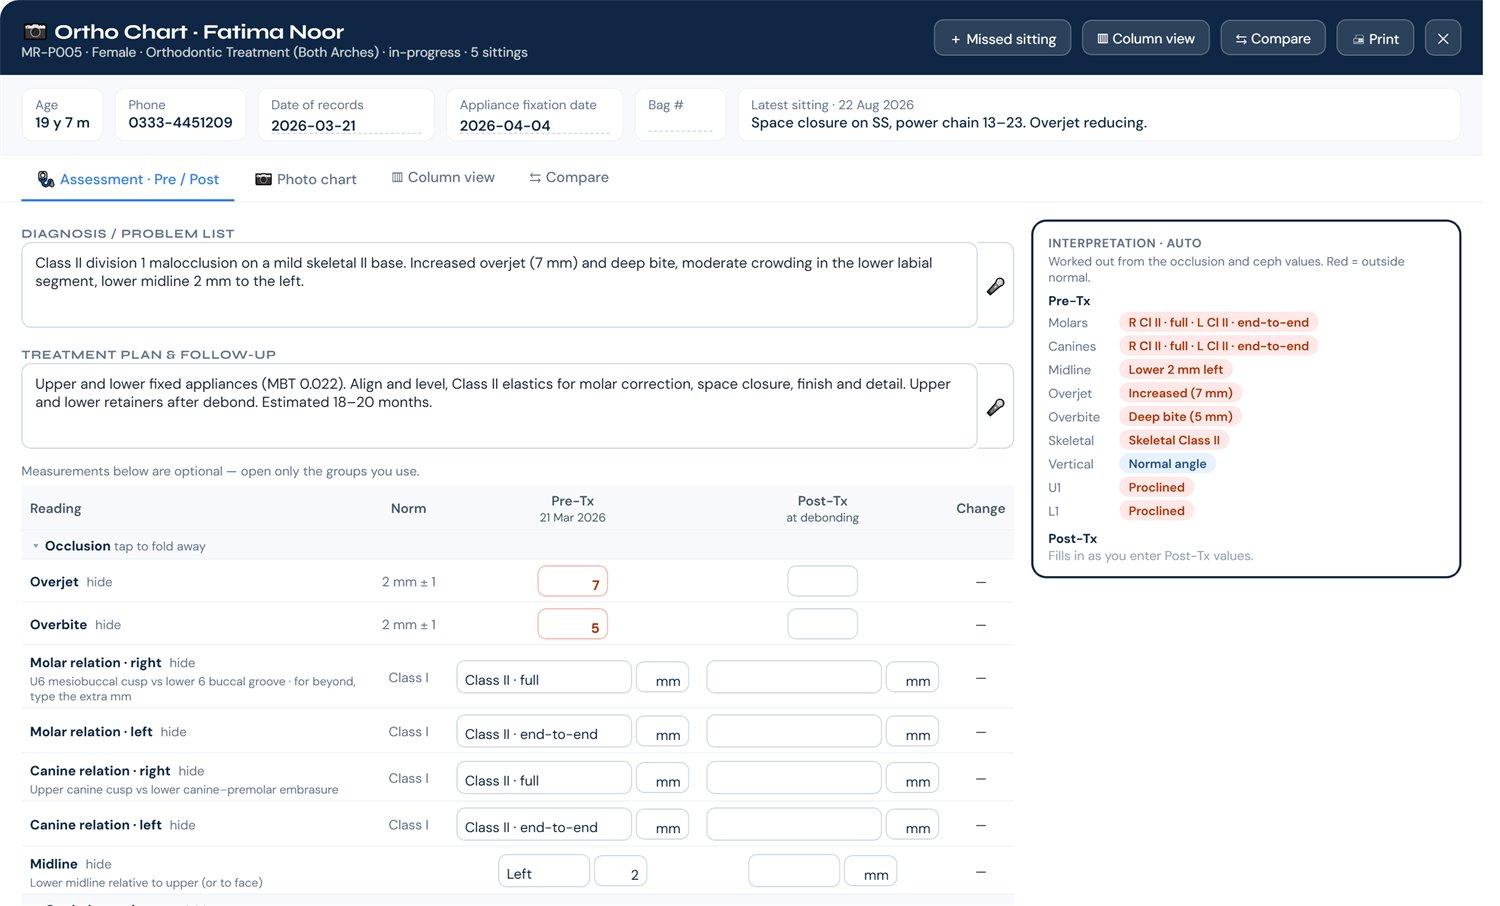
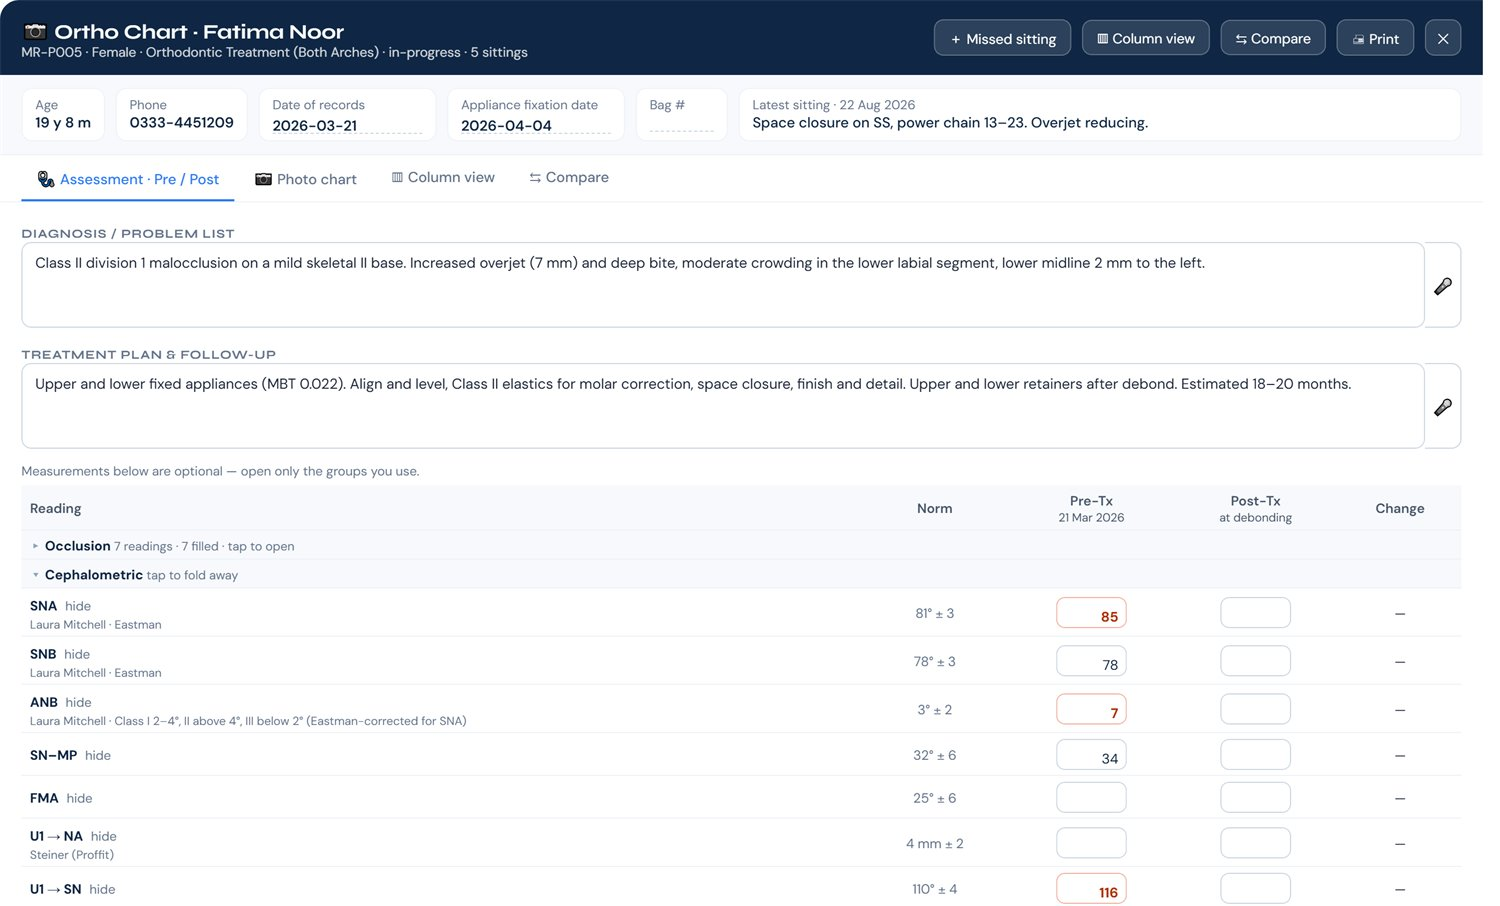
Site: ortho screenshot and caption for 1.6.70 (textbook ranges, interpretation box removed)

diff --git a/index.html b/index.html
@@ -436,8 +436,8 @@
       </div>
       <div class="pair">
         <div>
-          <div class="shot shot--doc"><img loading="lazy" src="img/15-ortho-assessment.jpg" width="1500" height="906" alt="Ortho chart assessment tab with diagnosis, treatment plan, pre and post treatment readings and an automatic interpretation panel"></div>
-          <div class="cap"><b>Assessment</b>: enter overjet, overbite, molar and canine relations and ceph values, and the interpretation is worked out for you</div>
+          <div class="shot shot--doc"><img loading="lazy" src="img/15-ortho-assessment.jpg" width="1500" height="906" alt="Ortho chart assessment tab with diagnosis, treatment plan and pre and post treatment readings, each with its textbook normal range"></div>
+          <div class="cap"><b>Assessment</b>: diagnosis and plan first, then the readings. Each one shows its textbook normal range (Laura Mitchell, Steiner) and anything outside it turns red</div>
         </div>
         <div>
           <div class="shot shot--doc"><img loading="lazy" src="img/16-ortho-photochart.jpg" width="1500" height="906" alt="Ortho photo chart showing treatment progression sittings, newest first, each with upper and lower wire and a row of photo boxes"></div>
